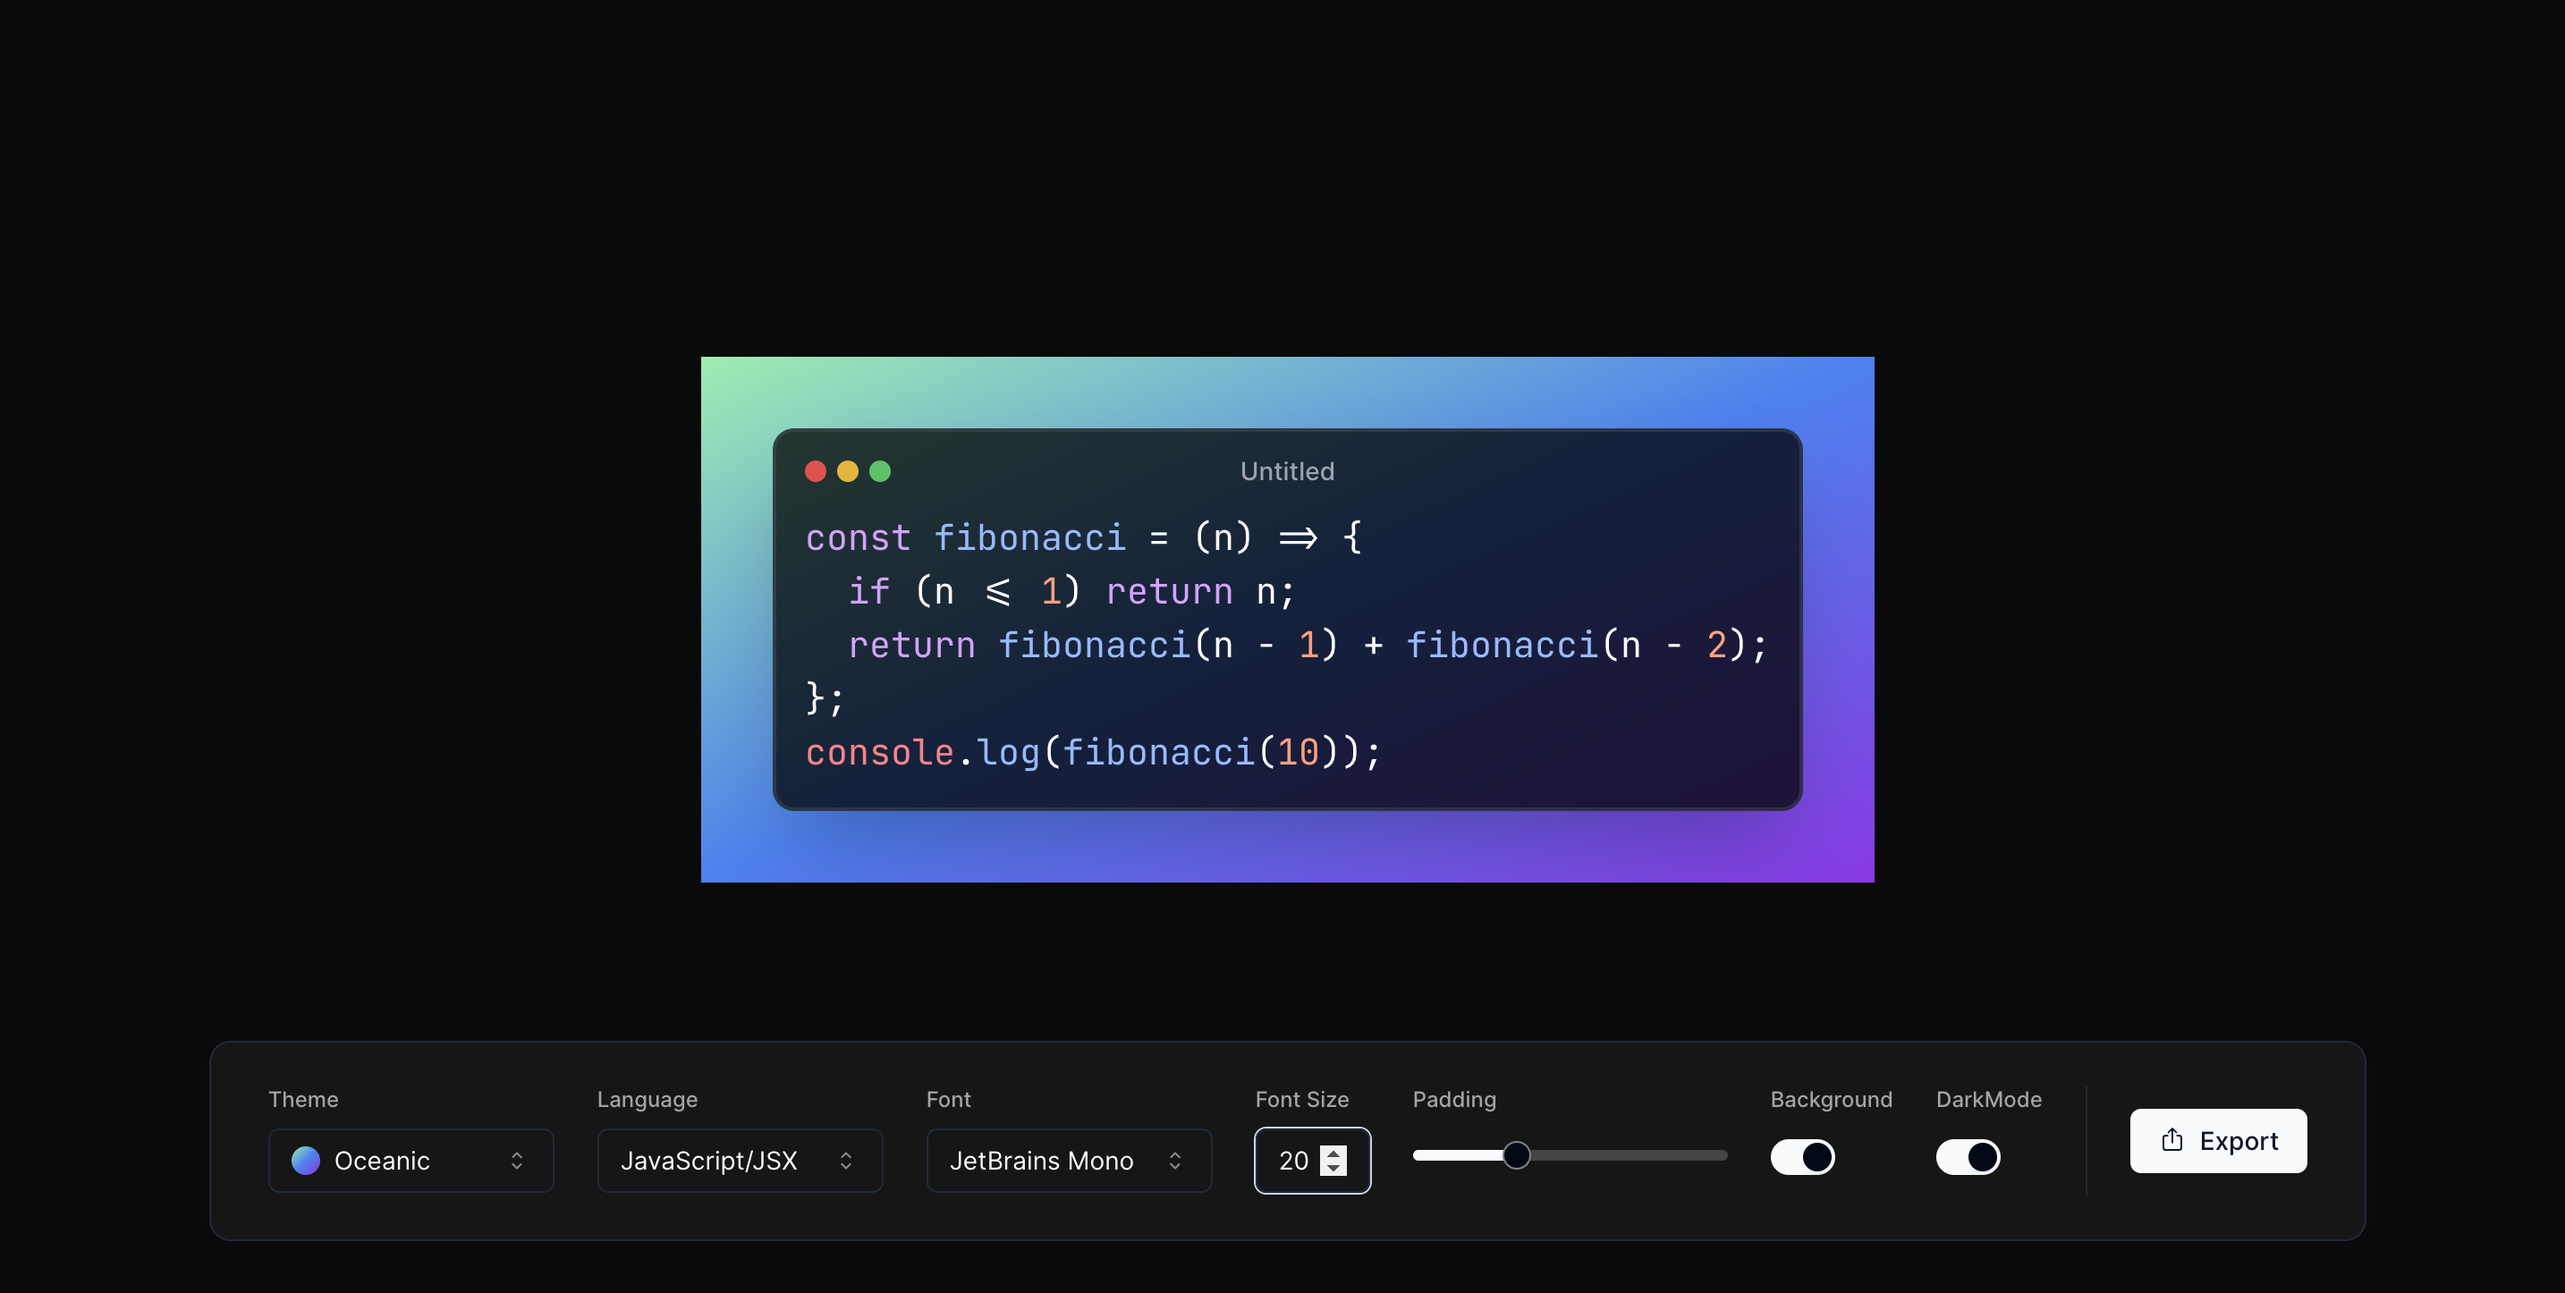
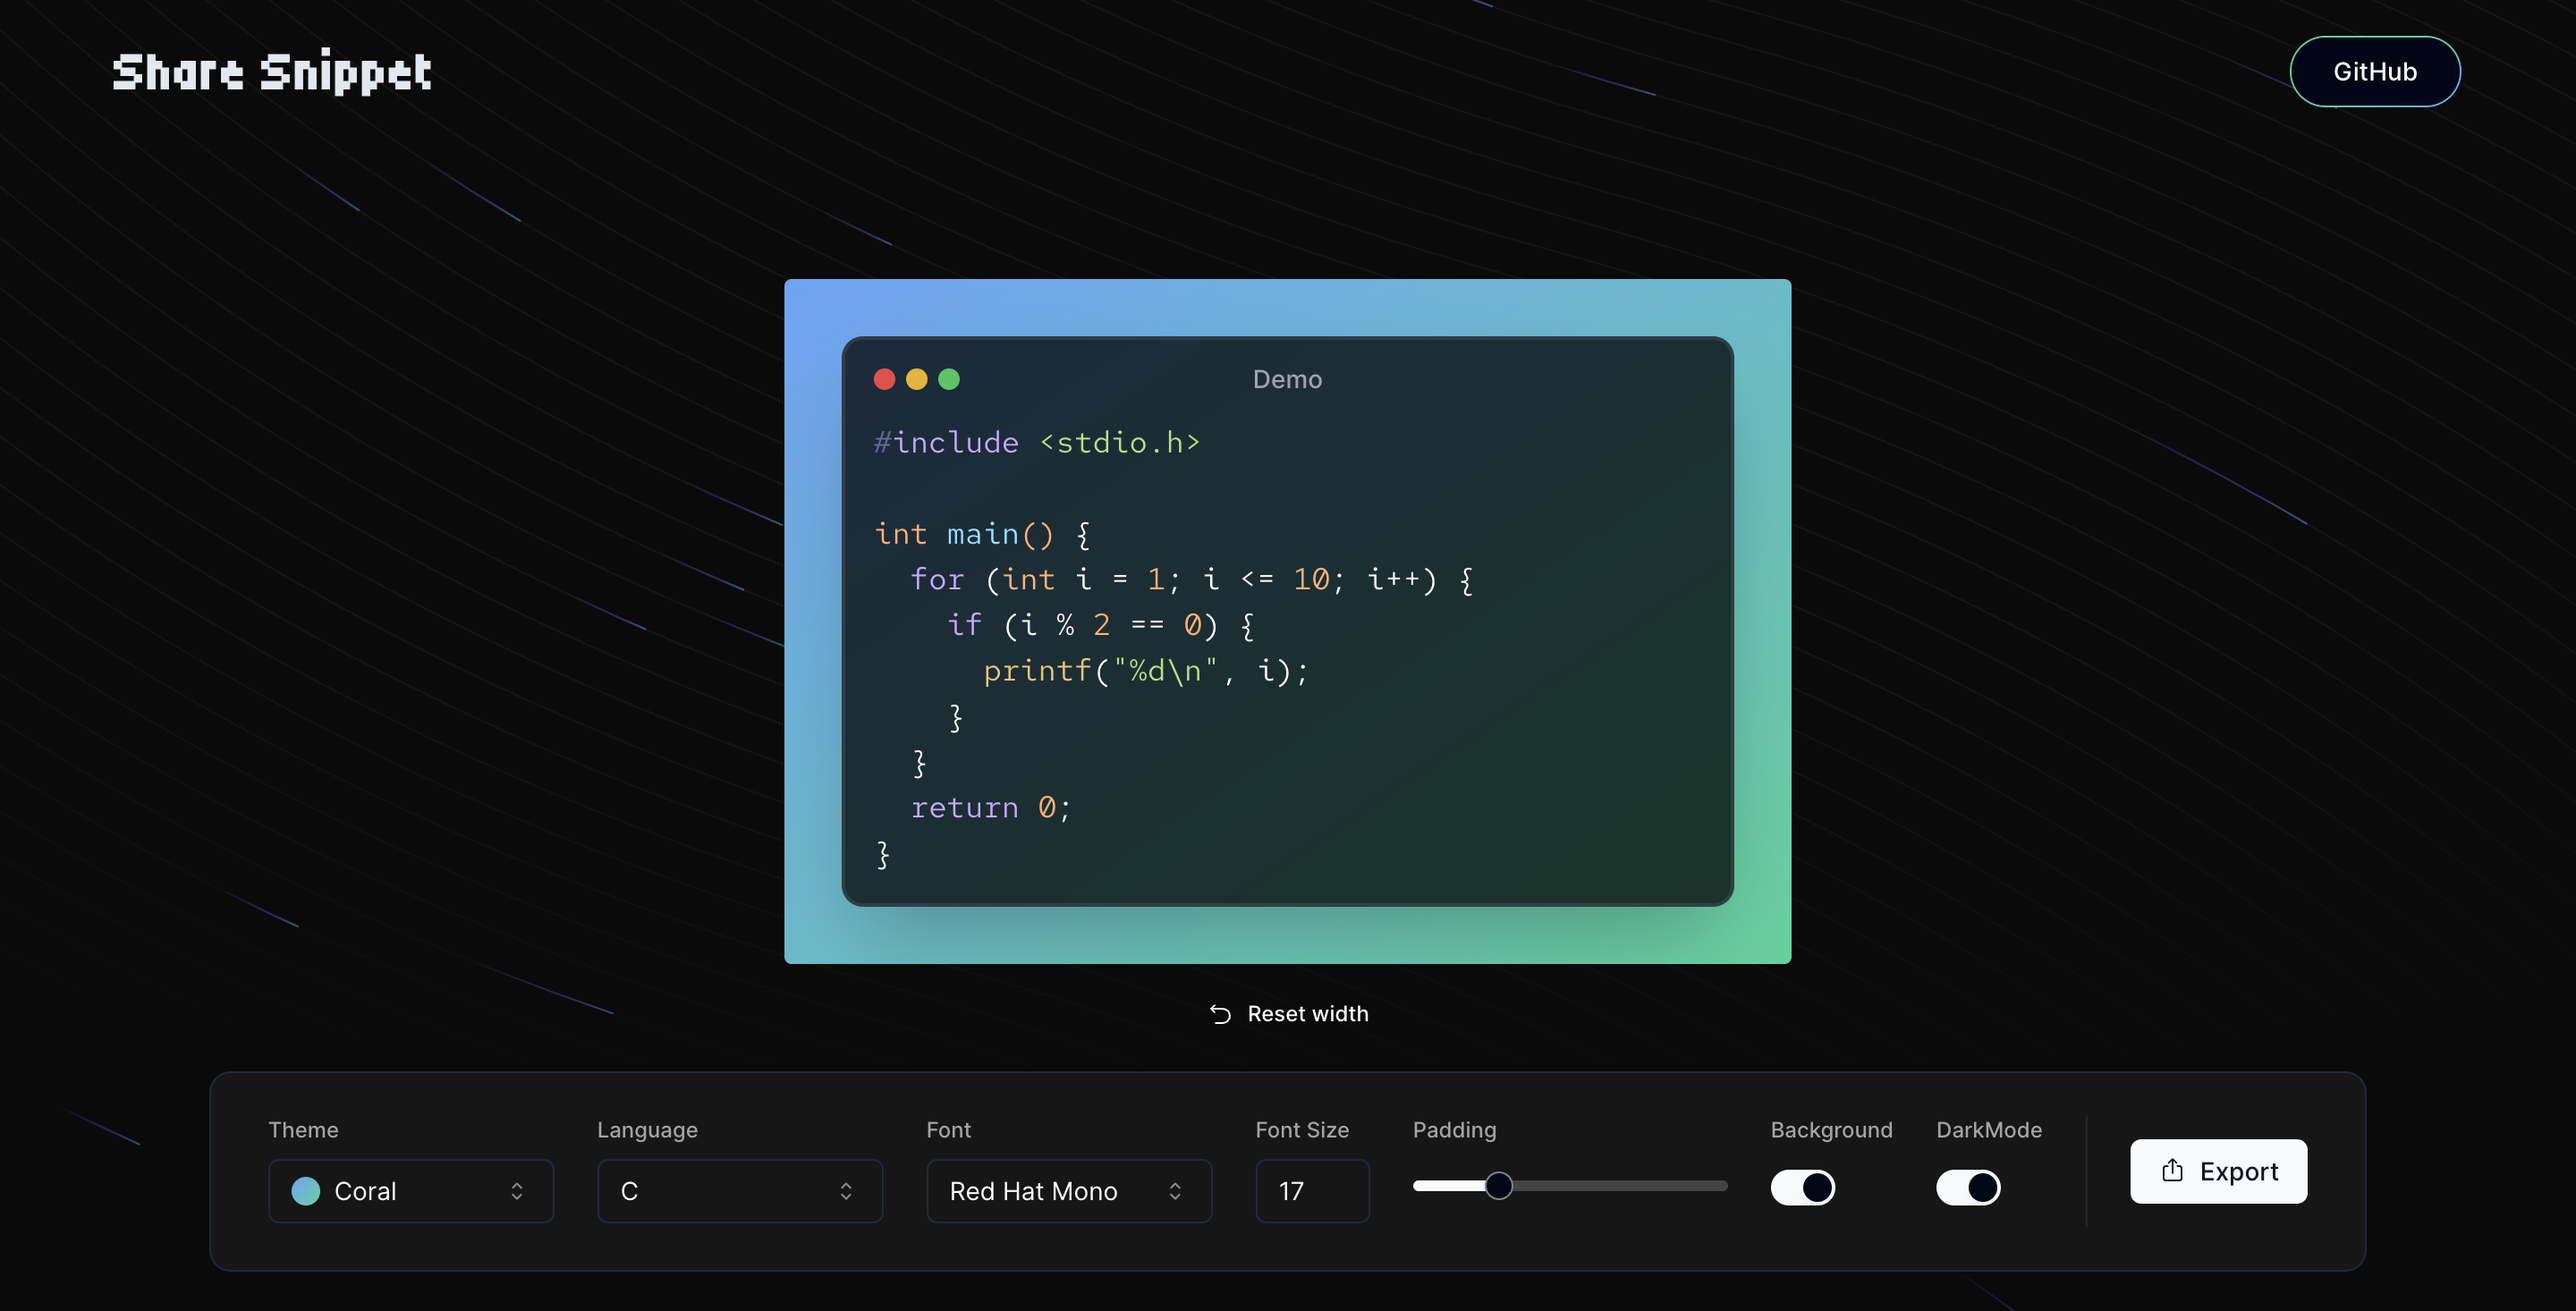
feat: Added navigation bar

diff --git a/src/app/page.tsx b/src/app/page.tsx
@@ -32,68 +32,85 @@ export default function Home() {
   const editorRef = useRef(null);
 
   return (
-    <main className="dark min-h-screen flex justify-center items-center bg-neutral-950 text-white">
-      <BackgroundBeams />
-      <link
-        rel="stylesheet"
-        href={themes[theme].theme}
-        crossOrigin="anonymous"
-      />
-      <link
-        rel="stylesheet"
-        href={fonts[fontStyle].src}
-        crossOrigin="anonymous"
-      />
+    <>
+      <main className="dark min-h-screen sm:flex justify-center items-center bg-neutral-950 text-white hidden">
+        <BackgroundBeams />
+        <link
+          rel="stylesheet"
+          href={themes[theme].theme}
+          crossOrigin="anonymous"
+        />
+        <link
+          rel="stylesheet"
+          href={fonts[fontStyle].src}
+          crossOrigin="anonymous"
+        />
 
-      <Resizable
-        enable={{ left: true, right: true }}
-        minWidth={padding * 2 + 400}
-        size={{ width }}
-        onResize={(e, dir, ref) => setWidth(ref.offsetWidth)}
-        onResizeStart={() => setShowWidth(true)}
-        onResizeStop={() => setShowWidth(false)}
-      >
-        <div
-          className={cn(
-            "overflow-hidden mb-2 transition-all ease-out -mt-8",
-            showBackground ? themes[theme].background : "ring ring-neutral-900"
-          )}
-          style={{ padding }}
-          ref={editorRef}
+        <Resizable
+          enable={{ left: true, right: true }}
+          minWidth={padding * 2 + 400}
+          size={{ width }}
+          onResize={(e, dir, ref) => setWidth(ref.offsetWidth)}
+          onResizeStart={() => setShowWidth(true)}
+          onResizeStop={() => setShowWidth(false)}
         >
-          <CodeEditor />
-        </div>
-        <WidthMeasurement showWidth={showWidth} width={width} />
-        <div
-          className={cn(
-            "transition-opacity w-fit mx-auto -mt-4",
-            showWidth || width === "auto"
-              ? "invisible opacity-0"
-              : "visible opacity-100"
-          )}
-        >
-          <Button size="sm" onClick={() => setWidth("auto")} variant="ghost">
-            <ResetIcon className="mr-2" />
-            Reset width
-          </Button>
-        </div>
-      </Resizable>
-
-      <Card className="fixed bottom-16 py-6 px-8 mx-6 bg-neutral-900/90 backdrop-blur">
-        <CardContent className="flex flex-wrap gap-6 p-0">
-          <ThemeSelect />
-          <LanguageSelect />
-          <FontSelect />
-          <FontSizeInput />
-          <PaddingSlider />
-          <BackgroundSwitch />
-          <DarkModeSwitch />
-          <div className="w-px bg-neutral-800" />
-          <div className="place-self-center">
-            <ExportOptions targetRef={editorRef} />
+          <div
+            className={cn(
+              "overflow-hidden mb-2 transition-all ease-out -mt-8 rounded-sm sm:max-w-full max-w-[90%]",
+              showBackground
+                ? themes[theme].background
+                : "ring ring-neutral-900"
+            )}
+            style={{ padding }}
+            ref={editorRef}
+          >
+            <CodeEditor />
           </div>
-        </CardContent>
-      </Card>
-    </main>
+          <WidthMeasurement showWidth={showWidth} width={width} />
+          <div
+            className={cn(
+              "transition-opacity w-fit mx-auto -mt-4",
+              showWidth || width === "auto"
+                ? "invisible opacity-0"
+                : "visible opacity-100"
+            )}
+          >
+            <Button size="sm" onClick={() => setWidth("auto")} variant="ghost">
+              <ResetIcon className="mr-2" />
+              Reset width
+            </Button>
+          </div>
+        </Resizable>
+
+        <Card className="fixed bottom-16 py-6 px-8 mx-6 bg-neutral-900/90 backdrop-blur whitespace-nowrap overflow-x-auto">
+          <CardContent className="flex gap-6 p-0">
+            <ThemeSelect />
+            <LanguageSelect />
+            <FontSelect />
+            <FontSizeInput />
+            <PaddingSlider />
+            <BackgroundSwitch />
+            <DarkModeSwitch />
+            <div className="w-px bg-neutral-800" />
+            <div className="place-self-center">
+              <ExportOptions targetRef={editorRef} />
+            </div>
+          </CardContent>
+        </Card>
+      </main>
+
+      <main className="dark min-h-screen flex justify-center items-center bg-neutral-950 text-white sm:hidden">
+        <BackgroundBeams />
+
+        <Card className="bg-neutral-900/90 backdrop-blur max-w-[75%]">
+          <CardContent>
+            <h1 className="mt-8 mb-2 text-slate-200 font-medium text-lg text-center">
+              I am in the process of fine-tuning the mobile view 📱. Stay tuned
+              for updates! 🌟
+            </h1>
+          </CardContent>
+        </Card>
+      </main>
+    </>
   );
 }

diff --git a/src/app/globals.css b/src/app/globals.css
@@ -1,69 +1,71 @@
+@import url("https://fonts.googleapis.com/css2?family=Tiny5&display=swap");
+
 @tailwind base;
-  @tailwind components;
-  @tailwind utilities;
+@tailwind components;
+@tailwind utilities;
 
-  @layer base {
-    :root {
-      --background: 0 0% 100%;
-      --foreground: 222.2 84% 4.9%;
-      --card: 0 0% 100%;
-      --card-foreground: 222.2 84% 4.9%;
-      --popover: 0 0% 100%;
-      --popover-foreground: 222.2 84% 4.9%;
-      --primary: 222.2 47.4% 11.2%;
-      --primary-foreground: 210 40% 98%;
-      --secondary: 210 40% 96.1%;
-      --secondary-foreground: 222.2 47.4% 11.2%;
-      --muted: 210 40% 96.1%;
-      --muted-foreground: 215.4 16.3% 46.9%;
-      --accent: 210 40% 96.1%;
-      --accent-foreground: 222.2 47.4% 11.2%;
-      --destructive: 0 84.2% 60.2%;
-      --destructive-foreground: 210 40% 98%;
-      --border: 214.3 31.8% 91.4%;
-      --input: 214.3 31.8% 91.4%;
-      --ring: 222.2 84% 4.9%;
-      --radius: 0.5rem;
-      --chart-1: 12 76% 61%;
-      --chart-2: 173 58% 39%;
-      --chart-3: 197 37% 24%;
-      --chart-4: 43 74% 66%;
-      --chart-5: 27 87% 67%;
-    }
-
-    .dark {
-      --background: 222.2 84% 4.9%;
-      --foreground: 210 40% 98%;
-      --card: 222.2 84% 4.9%;
-      --card-foreground: 210 40% 98%;
-      --popover: 222.2 84% 4.9%;
-      --popover-foreground: 210 40% 98%;
-      --primary: 210 40% 98%;
-      --primary-foreground: 222.2 47.4% 11.2%;
-      --secondary: 217.2 32.6% 17.5%;
-      --secondary-foreground: 210 40% 98%;
-      --muted: 217.2 32.6% 17.5%;
-      --muted-foreground: 215 20.2% 65.1%;
-      --accent: 217.2 32.6% 17.5%;
-      --accent-foreground: 210 40% 98%;
-      --destructive: 0 62.8% 30.6%;
-      --destructive-foreground: 210 40% 98%;
-      --border: 217.2 32.6% 17.5%;
-      --input: 217.2 32.6% 17.5%;
-      --ring: 212.7 26.8% 83.9%;
-      --chart-1: 220 70% 50%;
-      --chart-2: 160 60% 45%;
-      --chart-3: 30 80% 55%;
-      --chart-4: 280 65% 60%;
-      --chart-5: 340 75% 55%;
-    }
+@layer base {
+  :root {
+    --background: 0 0% 100%;
+    --foreground: 222.2 84% 4.9%;
+    --card: 0 0% 100%;
+    --card-foreground: 222.2 84% 4.9%;
+    --popover: 0 0% 100%;
+    --popover-foreground: 222.2 84% 4.9%;
+    --primary: 222.2 47.4% 11.2%;
+    --primary-foreground: 210 40% 98%;
+    --secondary: 210 40% 96.1%;
+    --secondary-foreground: 222.2 47.4% 11.2%;
+    --muted: 210 40% 96.1%;
+    --muted-foreground: 215.4 16.3% 46.9%;
+    --accent: 210 40% 96.1%;
+    --accent-foreground: 222.2 47.4% 11.2%;
+    --destructive: 0 84.2% 60.2%;
+    --destructive-foreground: 210 40% 98%;
+    --border: 214.3 31.8% 91.4%;
+    --input: 214.3 31.8% 91.4%;
+    --ring: 222.2 84% 4.9%;
+    --radius: 0.5rem;
+    --chart-1: 12 76% 61%;
+    --chart-2: 173 58% 39%;
+    --chart-3: 197 37% 24%;
+    --chart-4: 43 74% 66%;
+    --chart-5: 27 87% 67%;
   }
 
-  @layer base {
-    * {
-      @apply border-border;
-    }
-    body {
-      @apply bg-background text-foreground;
-    }
+  .dark {
+    --background: 222.2 84% 4.9%;
+    --foreground: 210 40% 98%;
+    --card: 222.2 84% 4.9%;
+    --card-foreground: 210 40% 98%;
+    --popover: 222.2 84% 4.9%;
+    --popover-foreground: 210 40% 98%;
+    --primary: 210 40% 98%;
+    --primary-foreground: 222.2 47.4% 11.2%;
+    --secondary: 217.2 32.6% 17.5%;
+    --secondary-foreground: 210 40% 98%;
+    --muted: 217.2 32.6% 17.5%;
+    --muted-foreground: 215 20.2% 65.1%;
+    --accent: 217.2 32.6% 17.5%;
+    --accent-foreground: 210 40% 98%;
+    --destructive: 0 62.8% 30.6%;
+    --destructive-foreground: 210 40% 98%;
+    --border: 217.2 32.6% 17.5%;
+    --input: 217.2 32.6% 17.5%;
+    --ring: 212.7 26.8% 83.9%;
+    --chart-1: 220 70% 50%;
+    --chart-2: 160 60% 45%;
+    --chart-3: 30 80% 55%;
+    --chart-4: 280 65% 60%;
+    --chart-5: 340 75% 55%;
   }
+}
+
+@layer base {
+  * {
+    @apply border-border;
+  }
+  body {
+    @apply bg-background text-foreground;
+  }
+}

diff --git a/src/components/Navbar.tsx b/src/components/Navbar.tsx
@@ -1,0 +1,27 @@
+import Link from "next/link";
+
+const Navbar = () => {
+  return (
+    <nav className="z-50 fixed top-0 w-[100%]">
+      <div className="flex w-full justify-between items-center my-6">
+        <h1 className="font-bold font-logo text-2xl sm:text-3xl text-slate-200 sm:ml-16 ml-6">
+          Share Snippet
+        </h1>
+
+        <button className="relative inline-flex h-8 sm:h-10 w-24 overflow-hidden rounded-full p-[1px] focus:outline-none focus:ring-2 focus:ring-slate-400 focus:ring-offset-2 focus:ring-offset-slate-50 sm:mr-16 mr-6">
+          <span className="absolute inset-[-1000%] animate-[spin_2s_linear_infinite] bg-[conic-gradient(from_90deg_at_50%_50%,#5EA7F5_0%,#36CF99_50%,#36CF99_100%)]" />
+          <span className="inline-flex h-full w-full cursor-pointer items-center justify-center rounded-full bg-slate-950 px-3 py-1 text-sm font-medium text-white backdrop-blur-3xl">
+            <Link
+              href="https://github.com/R1shabh-Gupta/ShareSnippet"
+              target="_blank"
+            >
+              GitHub
+            </Link>
+          </span>
+        </button>
+      </div>
+    </nav>
+  );
+};
+
+export default Navbar;

diff --git a/src/app/layout.tsx b/src/app/layout.tsx
@@ -1,3 +1,4 @@
+import Navbar from "@/components/Navbar";
 import { cn } from "@/lib/utils";
 import type { Metadata } from "next";
 import { Inter as FontSans } from "next/font/google";
@@ -28,6 +29,7 @@ export default function RootLayout({
           fontSans.variable
         )}
       >
+        <Navbar />
         {children}
         <Toaster />
       </body>

diff --git a/src/components/CodeEditor.tsx b/src/components/CodeEditor.tsx
@@ -27,7 +27,7 @@ const CodeEditor = () => {
   return (
     <div
       className={cn(
-        "min-w-[400px] border-2 rounded-xl shadow-2xl",
+        "min-w-[120px] sm:min-w-[400px] border-2 rounded-xl shadow-2xl",
         store.darkMode
           ? "bg-black/75 border-gray-600/40"
           : "bg-white/75 border-gray-200/20"

diff --git a/tailwind.config.ts b/tailwind.config.ts
@@ -60,6 +60,7 @@ const config = {
       },
       fontFamily: {
         sans: ["var(--font-sans)", ...fontFamily.sans],
+        logo: ["Tiny5", "sans-serif"],
       },
       borderRadius: {
         lg: "var(--radius)",
